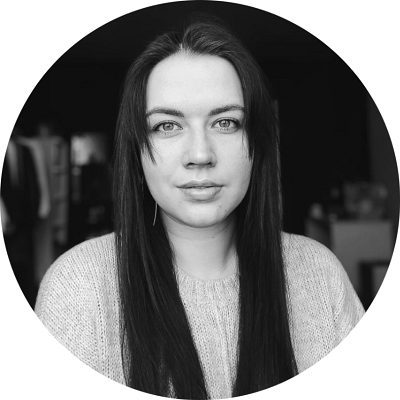
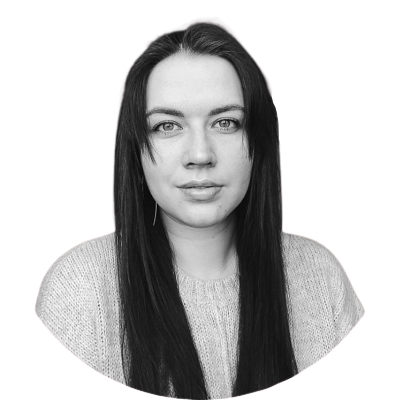
feat: add filling html and some styles

diff --git a/index.html b/index.html
@@ -8,8 +8,93 @@
     <link rel="stylesheet" href="style.css">
 </head>
 <body>
-   <h1>Feature CV</h1>
-   <h4>Photo</h4>
-   <div><img src="img/ph.png" alt="photo"></div>
+    <div class="all">
+    <header class="myheader">
+        <div class="contact">
+            <h1>Nadia Hameza</h1>
+            <h2>Contact information:</h2>
+            <ul>
+                <li>Phone: +375256941695</li>
+                <li>E-mail: Nadya1gam@gmail.com</li>
+                <li>Telegram: @nadihameza</li>
+                <li>Rs school: Nadia Hameza (@nadi-hameza)</li>
+                <li><a href="https://www.linkedin.com/in/nadia-hameza/">LinkedIn</a></li>
+                <li><a href="https://rabota.by/resume/bdd02944ff08b82f160039ed1f396b48795561">Rabota.by</a></li>
+            </ul>
+            </div>
+     <img class="photo" src="img/ph.png" alt="photo">
+    </header>
+    <nav>
+        <!— Навигация —>  
+    </nav>
+    <main>
+        About Myself:
+        I am trainee web developer, study html, css, js on RS course. Also I study English with a tutor. Now I work in the content as a deputy head. At work I like to automate processes, train employees and I easily manage to find contact with people.
+        
+        Skills:
+        HTML/CSS - Basics+
+        JavaScript - Basics
+        SQL - Basics
+        Git/GitHub - Basics
+        JIRA - Basics
+        Software testing theory - Middle
+        Test cases, checklists - Middle
+        Software Development Methodologies - Middle+
+        Adobe Photoshop - Basics+
+        MS Excel - Middle+
+        Human resource management - Middle+
+
+        Code example:
+        <!- const getHiddenCard = (cardNumber, Count = 4) => {
+            const visibleDigitsLine = cardNumber.slice(12);
+            return `${'*'.repeat(Count)}${visibleDigitsLine}`;
+          };
+          export default getHiddenCard; ->
+
+        Experience:
+        Deputy Head of Content Department
+        E-dostavka
+
+        Minsk, e-dostavka.by
+
+        2021 - until now
+
+        Organization of employees' work (8 people).
+        Monitoring employees performance.
+        Interviews, introductory training of new employees.
+        Interaction with various departments of the company (sales, purchases, IT), the implementation of their tasks, making corrections to the site.
+        Development of templates for product descriptions, the catalog structure.
+        Current reporting, work with Excel. Working with large amounts of data.
+        Implementation of external software into the work of the department. Work on mini-projects inside the department.
+        Specialist in working with customers
+        LIFE:)
+
+        Minsk, www.life.com.by
+
+        2017 - 2020
+
+        Work with documents, contact center, sales, work with invoices, work with clients, social networks, work with mobile devices, CRM systems. Training and adaptation of new employees, development of instructions and procedures.
+        
+        Education:
+        Belarusian State Academy of Communications Software testing, 2014 - 2017
+
+        Courses:
+        IT Academy Stormnet, Junior QA , Software Testing, 2021
+        Basics HTML & CSS (link)
+        HTML for beginners
+        JavaScript for Beginners
+        
+        Languages:
+        Russian - C2
+        Belarusian - C1
+        English - A2+ (in progress)
+    </main>
+    <footer class="main-footer">
+        <!— Подвал сайта —>
+        Portfolio:
+        Project CV RS School (link)
+        лого РС + ссылка
+    </footer>  
+</div>
 </body>
 </html>

diff --git a/style.css b/style.css
@@ -1,13 +1,23 @@
-div {
-    display: flex;
-    justify-content: center;
+.all {
+  width: 1200px;
+  margin: auto;
+  background-color: #B0C4DE;
 }
 
 img {
- max-width: 300px;
- max-height: 450px;
+ max-width: 250px;
+ max-height: 250px;
+ }
+
+.myheader {
+ display: flex;
+ width: 100%;
+ justify-content: space-around;
+ height: 270px;
 }
 
-h4, h1 {
-  text-align: center;  
+main {
+  width: 100%;
+  display: flex;
+  justify-content: space-around;
 }
